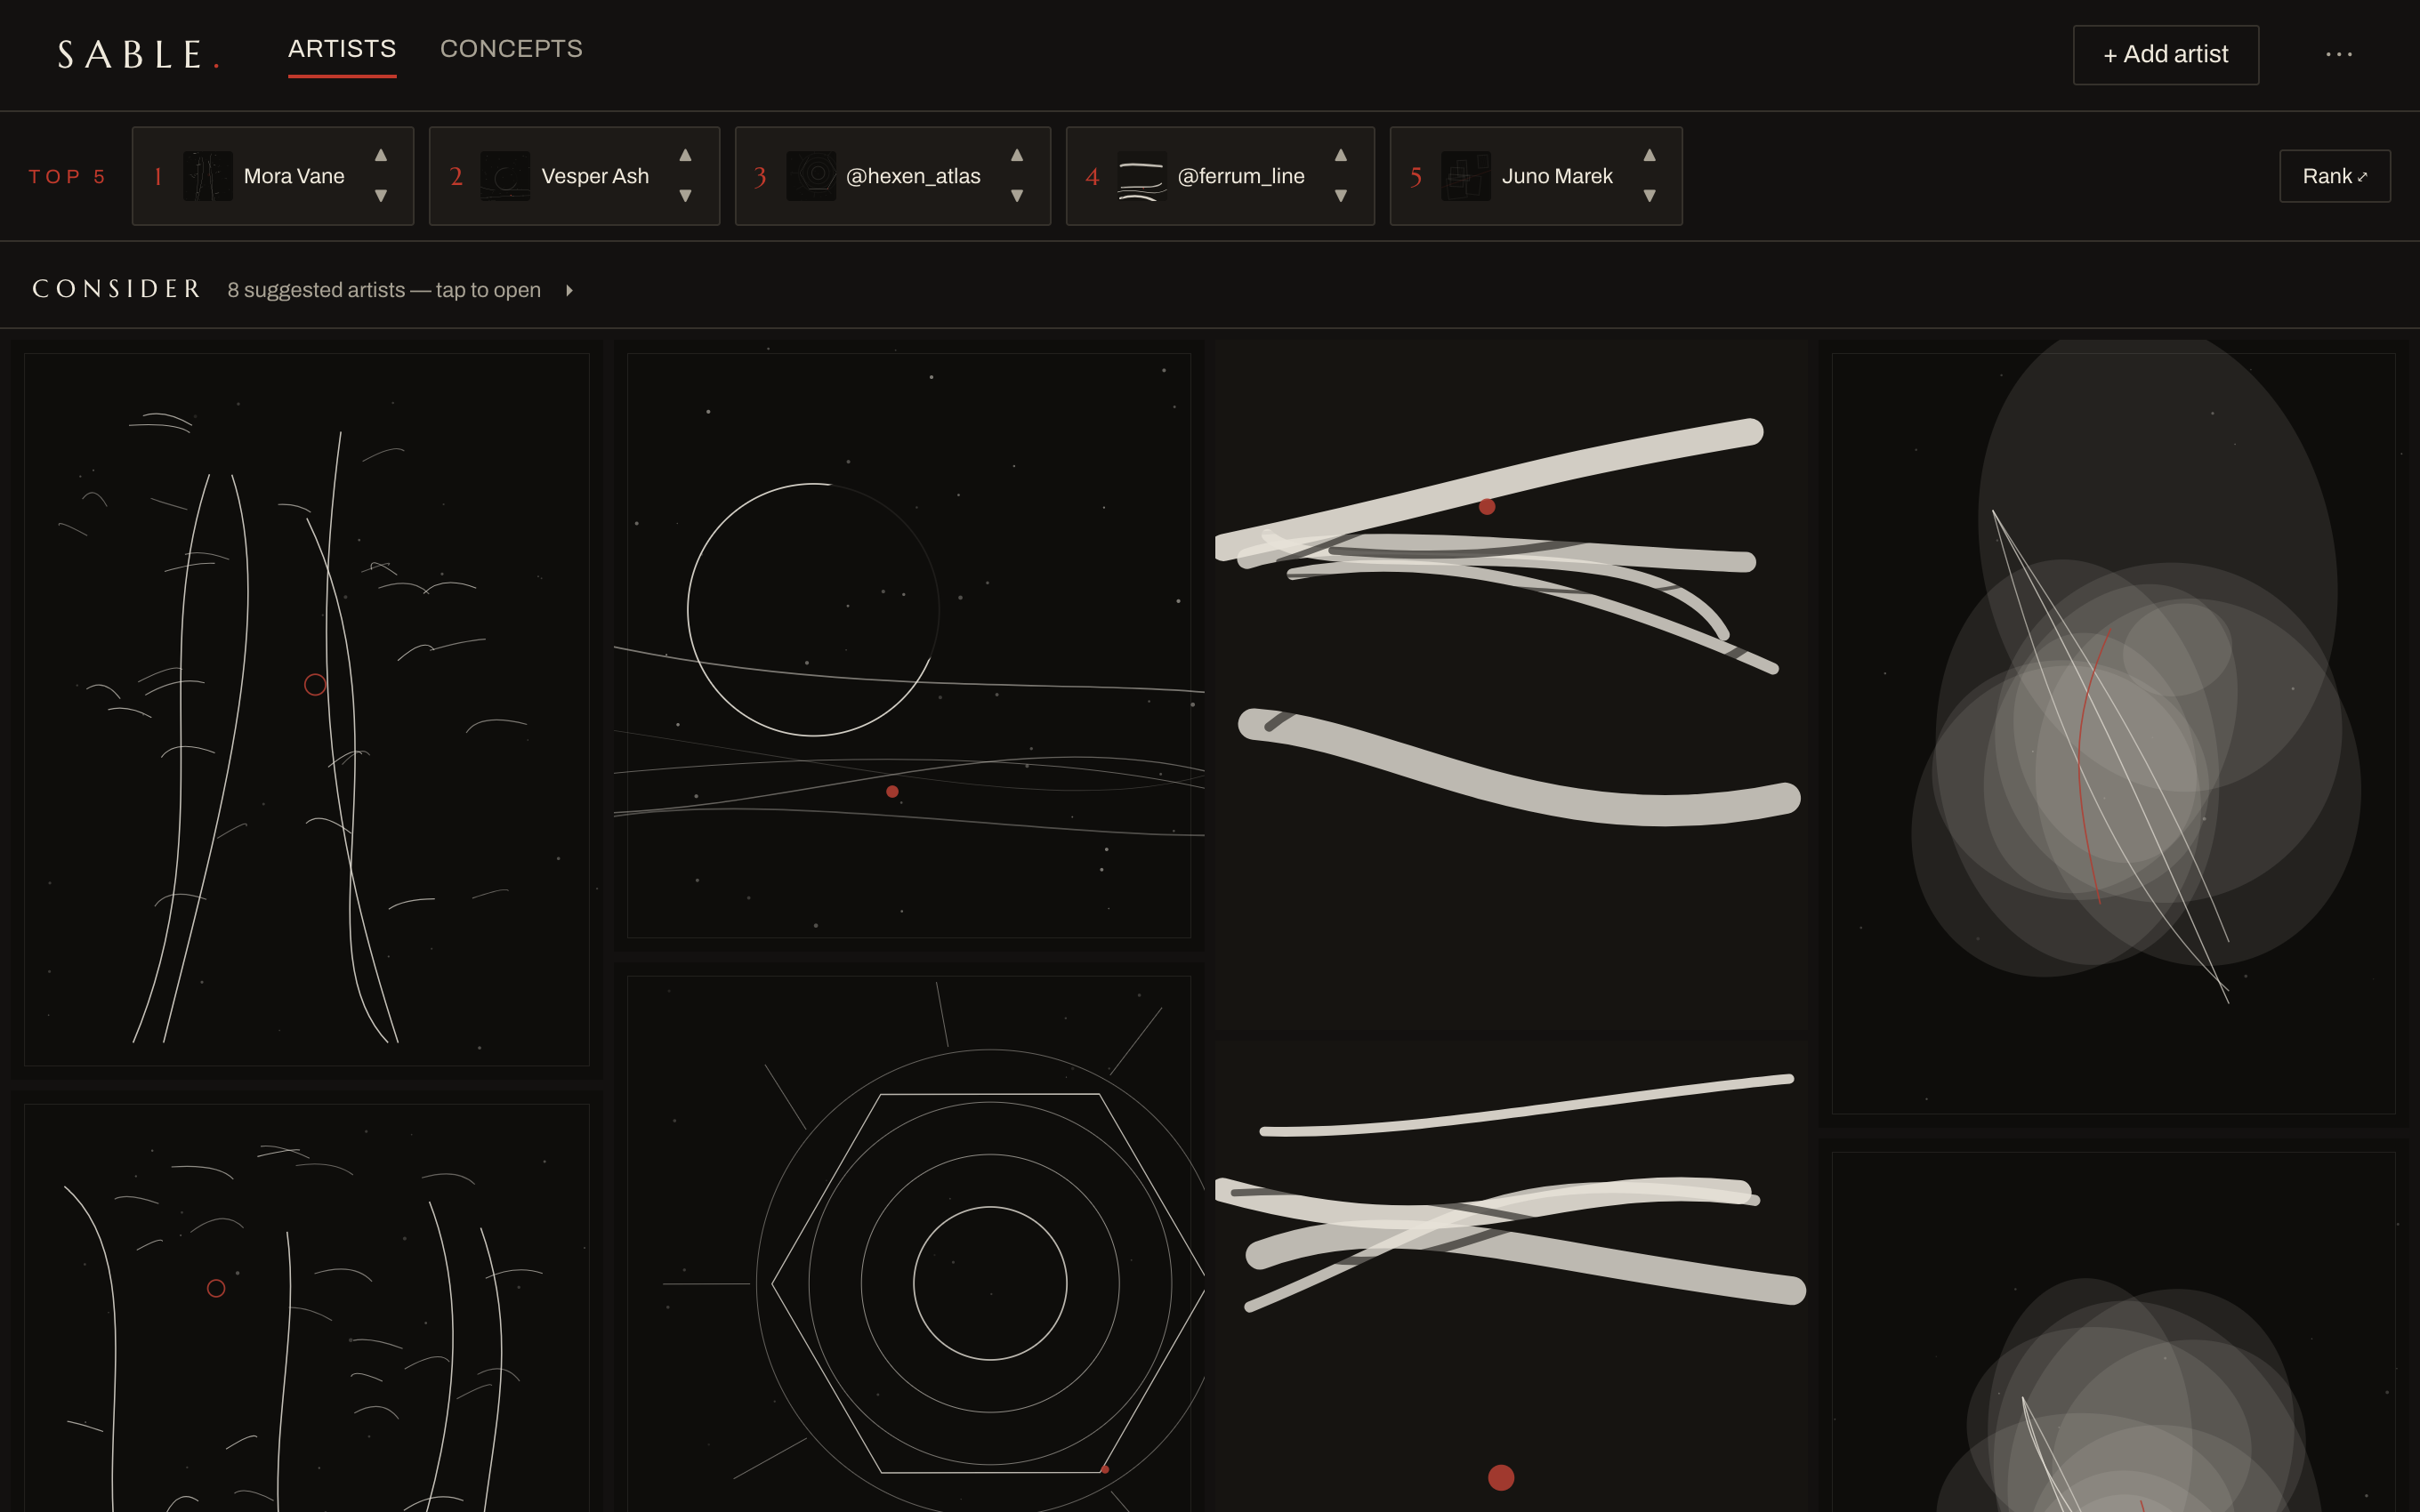
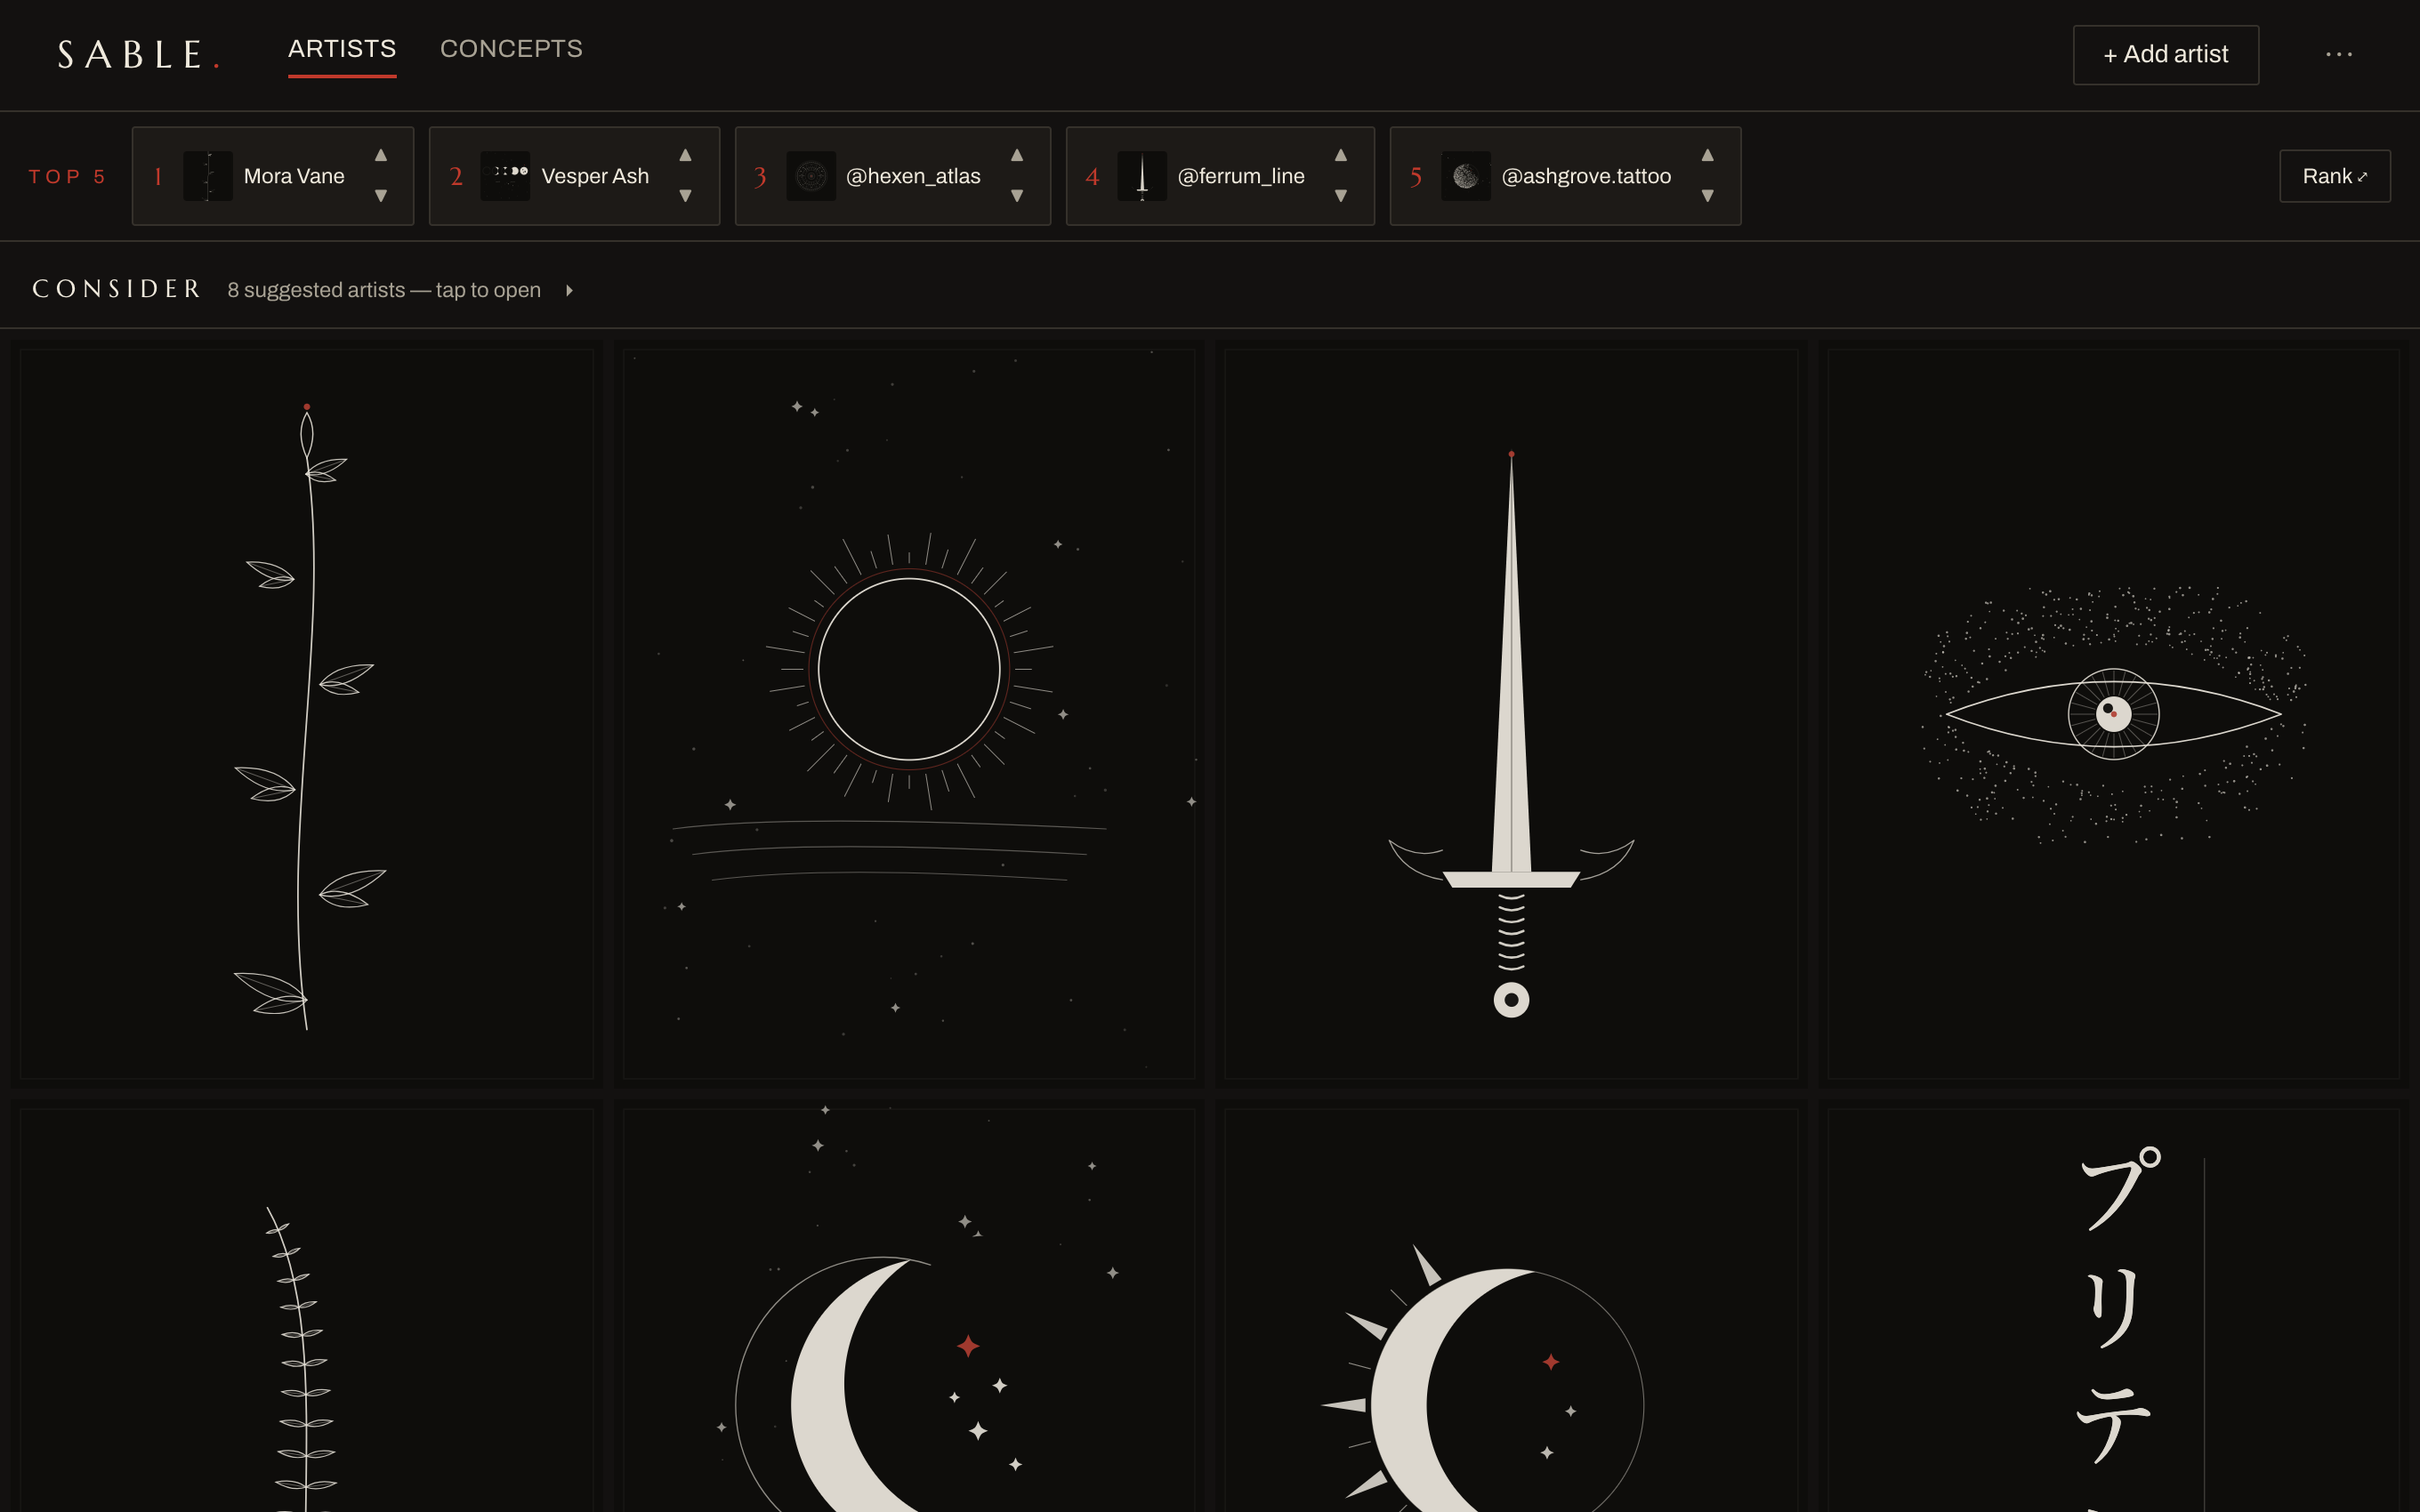
feat(demo): curate to six artists + versioned self-healing re-seed
Drops the two weakest demo sets (quietruin.ink architectural, palefox.ink
single-line) with their SVGs, reflows ranks, promotes lekhani.ink to
shortlisted, and recaptures the three README screenshots from the new
dataset.

Adds DEMO_SEED_VERSION: a proven demo session whose dataset predates the
shipped files re-seeds on any boot (installed PWA launches at / without
?demo=1). Seeded sessions carry a demo:true marker the login form cannot
produce, so a real login — even as [email redacted] — is never touched;
garbage version values count as stale, newer ones never downgrade.

Cross-model review triage: codex findings 1/3/5 fixed here (session
marker, boot-time check, version validation); 4 filed as #34 (multi-tab
sync resurrection); 2 rejected — seeding when signed out predates this
change and is the demo entry path. agy: style-coverage narrowing is the
point of the curation; re-seed toast noted as a possible nicety.

diff --git a/src/test/demoSeed.test.js b/src/test/demoSeed.test.js
@@ -5,6 +5,7 @@ import {
   DEMO_ARTISTS,
   DEMO_IDEAS,
   DEMO_SESSION,
+  DEMO_SEED_VERSION,
   seedDemoData,
   maybeSeedDemo,
 } from '../data/demoSeed'
@@ -136,5 +137,93 @@ describe('maybeSeedDemo', () => {
   it('only runs against the local backend', () => {
     expect(maybeSeedDemo({ search: '?demo=1' }, 'supabase')).toBe(false)
     expect(localStorage.getItem('tattoo_artists_meta')).toBeNull()
+  })
+
+  it('records the current seed version when seeding', () => {
+    maybeSeedDemo({ search: '?demo=1' }, 'local')
+    expect(Number(localStorage.getItem('tattoo_demo_seed_version'))).toBe(DEMO_SEED_VERSION)
+  })
+
+  it('re-seeds a stale DEMO session so returning visitors see the current dataset', () => {
+    maybeSeedDemo({ search: '?demo=1' }, 'local')
+    // simulate a visitor from an older deploy: outdated version + edited data
+    localStorage.setItem('tattoo_demo_seed_version', String(DEMO_SEED_VERSION - 1))
+    localStorage.setItem('tattoo_artists_meta', JSON.stringify([{ id: 'old-artist' }]))
+    expect(maybeSeedDemo({ search: '?demo=1' }, 'local')).toBe(true)
+    const meta = JSON.parse(localStorage.getItem('tattoo_artists_meta'))
+    expect(meta.map((a) => a.id)).toEqual(DEMO_ARTISTS.map((a) => a.id))
+    expect(Number(localStorage.getItem('tattoo_demo_seed_version'))).toBe(DEMO_SEED_VERSION)
+  })
+
+  it('treats a pre-versioning demo session (no version key) as stale', () => {
+    maybeSeedDemo({ search: '?demo=1' }, 'local')
+    localStorage.removeItem('tattoo_demo_seed_version')
+    expect(maybeSeedDemo({ search: '?demo=1' }, 'local')).toBe(true)
+  })
+
+  it('an outdated version key never causes a REAL user session to be touched', () => {
+    localStorage.setItem(
+      'tattoo_local_session',
+      JSON.stringify({ user: { id: '[email redacted]', email: '[email redacted]' } })
+    )
+    localStorage.setItem('tattoo_demo_seed_version', '0')
+    expect(maybeSeedDemo({ search: '?demo=1' }, 'local')).toBe(false)
+    expect(localStorage.getItem('tattoo_artists_meta')).toBeNull()
+  })
+
+  it('marks the seeded session as demo — a shape the login form never writes', () => {
+    maybeSeedDemo({ search: '?demo=1' }, 'local')
+    expect(JSON.parse(localStorage.getItem('tattoo_local_session')).demo).toBe(true)
+  })
+
+  it('re-seeds a stale demo session even without ?demo=1 (installed PWA boots at /)', () => {
+    maybeSeedDemo({ search: '?demo=1' }, 'local')
+    localStorage.setItem('tattoo_demo_seed_version', String(DEMO_SEED_VERSION - 1))
+    localStorage.setItem('tattoo_artists_meta', JSON.stringify([{ id: 'old-artist' }]))
+    expect(maybeSeedDemo({ search: '' }, 'local')).toBe(true)
+    expect(JSON.parse(localStorage.getItem('tattoo_artists_meta')).map((a) => a.id))
+      .toEqual(DEMO_ARTISTS.map((a) => a.id))
+  })
+
+  it('a current demo session booting without the query keeps its edits', () => {
+    maybeSeedDemo({ search: '?demo=1' }, 'local')
+    localStorage.setItem('tattoo_artists_meta', JSON.stringify([{ id: 'edited' }]))
+    expect(maybeSeedDemo({ search: '' }, 'local')).toBe(false)
+    expect(JSON.parse(localStorage.getItem('tattoo_artists_meta'))[0].id).toBe('edited')
+  })
+
+  it('a real login with the demo email is not re-seeded once versioning exists', () => {
+    // localAuth.signIn writes { user } with no demo marker; with a current
+    // version key on the device this must never be mistaken for a stale demo.
+    localStorage.setItem(
+      'tattoo_local_session',
+      JSON.stringify({ user: { id: DEMO_SESSION.user.id, email: DEMO_SESSION.user.email } })
+    )
+    localStorage.setItem('tattoo_demo_seed_version', String(DEMO_SEED_VERSION))
+    localStorage.setItem('tattoo_artists_meta', JSON.stringify([{ id: 'their-artist' }]))
+    expect(maybeSeedDemo({ search: '?demo=1' }, 'local')).toBe(false)
+    expect(JSON.parse(localStorage.getItem('tattoo_artists_meta'))[0].id).toBe('their-artist')
+  })
+
+  it('legacy v1 demo session (no marker, no version key) still re-seeds', () => {
+    localStorage.setItem('tattoo_local_session', JSON.stringify({ user: { ...DEMO_SESSION.user } }))
+    localStorage.setItem('tattoo_artists_meta', JSON.stringify([{ id: 'v1-artist' }]))
+    expect(maybeSeedDemo({ search: '?demo=1' }, 'local')).toBe(true)
+    expect(JSON.parse(localStorage.getItem('tattoo_local_session')).demo).toBe(true)
+  })
+
+  it('treats a garbage version value on a demo session as stale', () => {
+    maybeSeedDemo({ search: '?demo=1' }, 'local')
+    localStorage.setItem('tattoo_demo_seed_version', 'v1')
+    expect(maybeSeedDemo({ search: '?demo=1' }, 'local')).toBe(true)
+    expect(Number(localStorage.getItem('tattoo_demo_seed_version'))).toBe(DEMO_SEED_VERSION)
+  })
+
+  it('never downgrades: a version from a newer deploy is left alone', () => {
+    maybeSeedDemo({ search: '?demo=1' }, 'local')
+    localStorage.setItem('tattoo_demo_seed_version', String(DEMO_SEED_VERSION + 1))
+    localStorage.setItem('tattoo_artists_meta', JSON.stringify([{ id: 'newer' }]))
+    expect(maybeSeedDemo({ search: '?demo=1' }, 'local')).toBe(false)
+    expect(JSON.parse(localStorage.getItem('tattoo_artists_meta'))[0].id).toBe('newer')
   })
 })

diff --git a/src/data/demoSeed.js b/src/data/demoSeed.js
@@ -16,9 +16,18 @@
 import { backend } from '../backend'
 import { nowStamp } from '../backend/sync'
 
+// `demo: true` is the ownership proof: localAuth.signIn writes only { user },
+// so no login — even with this exact email — can produce a marked session.
 export const DEMO_SESSION = {
+  demo: true,
   user: { id: '[email redacted]', email: '[email redacted]' },
 }
+
+// Bump whenever the demo dataset changes shape (artists, image counts, art
+// replaced). A returning visitor whose DEMO session carries an older version
+// is re-seeded, so the public demo never shows a stale mix of old data and
+// current files. Real (non-demo) sessions are never touched.
+export const DEMO_SEED_VERSION = 2
 
 // BASE_URL is '/' locally and '/sable/' on GitHub Pages — prefix demo asset
 // paths so the seeded artwork resolves under a sub-path deploy (otherwise every
@@ -34,10 +43,8 @@ export const DEMO_ARTISTS = [
   { id: 'vesper_noctis', handle: 'vesper_noctis', name: 'Vesper Ash', tags: ['dark-fantasy', 'surrealism'], styleNote: 'Nocturnal surrealism — eclipsed moons, drifting wisps and star fields in moody black-and-grey.', images: demoImages('vesper_noctis'), rank: 2, status: 'contact-next', notes: '', studio: null },
   { id: 'hexen_atlas', handle: 'hexen_atlas', name: '', tags: ['blackwork', 'surrealism'], styleNote: 'Sacred geometry — concentric circles, polygons and radial spokes with a single red mark.', images: demoImages('hexen_atlas'), rank: 3, status: 'shortlisted', notes: '', studio: null },
   { id: 'ferrum_line', handle: 'ferrum_line', name: '', tags: ['blackwork'], styleNote: 'Bold brush blackwork — thick gestural swipes with dry-brush texture and heavy saturation.', images: demoImages('ferrum_line'), rank: 4, status: 'researching', notes: '', studio: null },
-  { id: 'quietruin.ink', handle: 'quietruin.ink', name: 'Juno Marek', tags: ['dark-illustrative', 'fine-line'], styleNote: 'Architectural sketch — fractured facades and fine hatching, drawn-on-skin immediacy.', images: demoImages('quietruin.ink'), rank: 5, status: 'contacted', notes: '', studio: null },
-  { id: 'ashgrove.tattoo', handle: 'ashgrove.tattoo', name: '', tags: ['realism', 'dark-illustrative'], styleNote: 'Dotwork realism — depth built from thousands of fine stippled points; soft, smoky, patient.', images: demoImages('ashgrove.tattoo'), rank: 6, status: 'researching', notes: '', studio: null },
-  { id: 'palefox.ink', handle: 'palefox.ink', name: 'Sable Wren', tags: ['fine-line', 'realism'], styleNote: 'Single-line minimalism — a whole subject caught in one unbroken, flowing line.', images: demoImages('palefox.ink'), rank: 7, status: 'maybe', notes: '', studio: null },
-  { id: 'lekhani.ink', handle: 'lekhani.ink', name: 'Asha Lekhani', tags: ['fine-line', 'blackwork'], styleNote: 'Script & letterforms — names carried across writing systems: katakana, hanzi, Gujarati, each set like lettering, not type.', images: demoImages('lekhani.ink'), rank: 8, status: 'researching', notes: '', studio: null },
+  { id: 'ashgrove.tattoo', handle: 'ashgrove.tattoo', name: '', tags: ['realism', 'dark-illustrative'], styleNote: 'Dotwork realism — depth built from thousands of fine stippled points; soft, smoky, patient.', images: demoImages('ashgrove.tattoo'), rank: 5, status: 'researching', notes: '', studio: null },
+  { id: 'lekhani.ink', handle: 'lekhani.ink', name: 'Asha Lekhani', tags: ['fine-line', 'blackwork'], styleNote: 'Script & letterforms — names carried across writing systems: katakana, hanzi, Gujarati, each set like lettering, not type.', images: demoImages('lekhani.ink'), rank: 6, status: 'shortlisted', notes: '', studio: null },
 ]
 
 export const DEMO_IDEAS = [
@@ -48,7 +55,7 @@ export const DEMO_IDEAS = [
     tags: ['dark-illustrative', 'fine-line'],
     placement: 'forearm',
     images: [{ url: `${B}images/demo/mora.blackfern/2.svg`, note: 'Line density reference' }],
-    linkedArtists: ['mora.blackfern', 'palefox.ink'],
+    linkedArtists: ['mora.blackfern'],
     status: 'idea',
   },
   {
@@ -88,17 +95,48 @@ export function seedDemoData(storage = localStorage) {
   write(storage, 'tattoo_remote_ideas', DEMO_IDEAS.map((i) => ({ ...i, updatedAt: at })))
   // Demo images are static paths — nothing to migrate to blob storage.
   storage.setItem('tattoo_img_migrated_v1', '1')
+  storage.setItem('tattoo_demo_seed_version', String(DEMO_SEED_VERSION))
 }
 
-// Boot-time hook (called from main.jsx before render). Seeds only when:
-// `?demo=1` is present, the backend is the offline local adapter, and there is
-// no existing session (a signed-in user — including a previous demo visit,
-// whose edits we keep — is never overwritten). Returns true if it seeded.
+// Two decisions, kept separate: first prove the session is the demo's own,
+// then compare dataset versions. The version key is global and mutable, so it
+// never participates in the ownership proof.
+function isStaleDemoSession(raw) {
+  try {
+    const session = JSON.parse(raw)
+    const version = Number(localStorage.getItem('tattoo_demo_seed_version'))
+    // A missing or garbage version key on a proven demo session means a
+    // pre-versioning deploy → stale. A version from a NEWER deploy (rollback
+    // in flight) is left alone — never downgrade.
+    const stale = !Number.isSafeInteger(version) || version < DEMO_SEED_VERSION
+    if (session?.demo === true) return stale
+    // Legacy window: v1 sessions predate the marker, so the demo user id plus
+    // pre-v2 evidence is the best proof available. From v2 on every seeded
+    // session is marked, so an unmarked session with a current version key is
+    // a real login (possibly with the demo email) and is never touched.
+    return (
+      session?.user?.id === DEMO_SESSION.user.id &&
+      (!Number.isSafeInteger(version) || version < 2)
+    )
+  } catch {
+    return false // unparseable session → treat as real, leave alone
+  }
+}
+
+// Boot-time hook (called from main.jsx before render). Creating a demo session
+// from nothing requires `?demo=1` and no existing session; but a proven demo
+// session whose stored dataset predates the shipped files re-seeds on ANY boot
+// — an installed PWA launches from start_url '/' without the query. A real
+// user's session is never overwritten. Returns true if it seeded.
 export function maybeSeedDemo(location = window.location, backendKind = backend.kind) {
   if (backendKind !== 'local') return false
-  if (new URLSearchParams(location.search || '').get('demo') !== '1') return false
   try {
-    if (localStorage.getItem('tattoo_local_session')) return false
+    const raw = localStorage.getItem('tattoo_local_session')
+    if (raw) {
+      if (!isStaleDemoSession(raw)) return false
+    } else if (new URLSearchParams(location.search || '').get('demo') !== '1') {
+      return false
+    }
     seedDemoData(localStorage)
     return true
   } catch {

diff --git a/README.md b/README.md
@@ -24,7 +24,7 @@ npm run dev
 #   http://localhost:5173/?demo=1
 ```
 
-`?demo=1` (on the default local backend) signs in a demo session and seeds eight fictional artists, ranked and statused, plus a few linked tattoo ideas. It never runs over an existing session, and edits you make in the demo persist across reloads. To reset, clear the site's storage (or use a fresh private window). The demo artwork is original, hand-authored SVG — one coherent tattoo style per artist (botanical, celestial, sacred geometry, blackwork, architectural, dotwork, single-line, and script lettering across katakana, hanzi and Gujarati).
+`?demo=1` (on the default local backend) signs in a demo session and seeds six fictional artists, ranked and statused, plus a few linked tattoo ideas. It never runs over an existing session (though an out-of-date demo session re-seeds itself, so returning visitors always see the current dataset), and edits you make in the demo persist across reloads. To reset, clear the site's storage (or use a fresh private window). The demo artwork is original, hand-authored SVG — one coherent tattoo style per artist (botanical, celestial, sacred geometry, bold blackwork, dotwork, and script lettering across katakana, hanzi and Gujarati).
 
 | Artists gallery | Brief (ideas) |
 | --- | --- |

diff --git a/docs/MAINTAINING.md b/docs/MAINTAINING.md
@@ -25,7 +25,7 @@ not `fullPage` — the fixed bottom nav floats to the middle on full-page captur
    committed and published — the curated images under `public/images/artists/` are
    third-party portfolio work that must never appear in them (this bit us once:
    pre-July-2026 captures shipped real artists' photos). Visit `/?demo=1` — it seeds
-   a fictional session, 8 artists with committed hand-authored SVG artwork, and 3 ideas
+   a fictional session, 6 artists with committed hand-authored SVG artwork, and 3 ideas
    (`src/data/demoSeed.js`). Boards and Concepts aren't in the seed; inject them via
    Playwright `evaluate` using `/images/demo/<artist>/<n>.svg` paths, writing BOTH
    the `tattoo_*` and `tattoo_remote_*` localStorage keys so sync keeps them, then